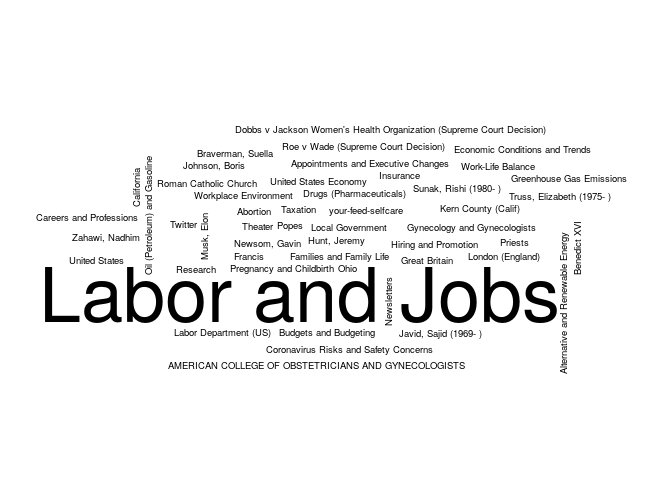
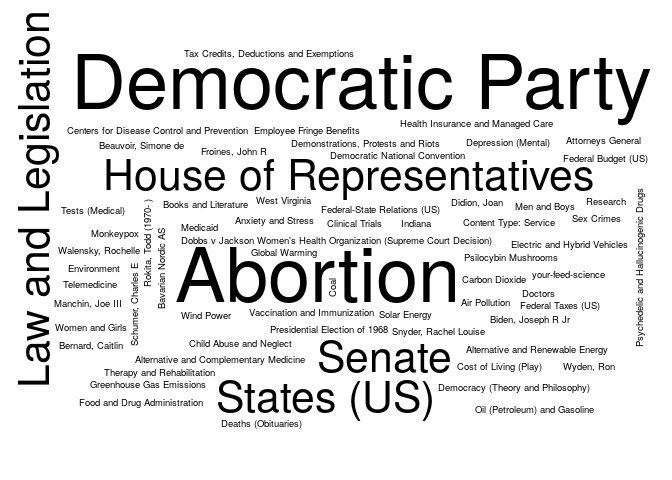
Updating the NYT report

Changed region(s): [[0.0312, 0.0312, 0.9688, 0.9062], [0.6875, 0.8438, 0.875, 0.875]]

diff --git a/03-nytimes/README.md b/03-nytimes/README.md
@@ -5,7 +5,7 @@ The following is an example of how to use the [NYTimes
 API](https://developer.nytimes.com/) to get a list of articles related
 to a particular term. Here we are searching articles that include the
 term `"health"`, and that were published up to seven days ago since
-2022-07-11.
+2022-07-18.
 
 ``` r
 # Preparing a function to use the GET method with the NYTimes API
@@ -83,25 +83,25 @@ colnames(tab) <- c("Keyword", "# Articles")
 knitr::kable(tab, row.names = FALSE)
 ```
 
-| Keyword                                                              | \# Articles |
-|:---------------------------------------------------------------------|------------:|
-| Content Type: Service                                                |          20 |
-| Labor and Jobs                                                       |          20 |
-| Politics and Government                                              |          20 |
-| Abortion                                                             |          10 |
-| Alternative and Renewable Energy                                     |          10 |
-| AMERICAN COLLEGE OF OBSTETRICIANS AND GYNECOLOGISTS                  |          10 |
-| Appointments and Executive Changes                                   |          10 |
-| Benedict XVI                                                         |          10 |
-| Braverman, Suella                                                    |          10 |
-| Budgets and Budgeting                                                |          10 |
-| California                                                           |          10 |
-| Careers and Professions                                              |          10 |
-| Coronavirus Risks and Safety Concerns                                |          10 |
-| Dobbs v Jackson Women’s Health Organization (Supreme Court Decision) |          10 |
-| Drugs (Pharmaceuticals)                                              |          10 |
-| Economic Conditions and Trends                                       |          10 |
-| Families and Family Life                                             |          10 |
-| Francis                                                              |          10 |
-| Great Britain                                                        |          10 |
-| Greenhouse Gas Emissions                                             |          10 |
+| Keyword                                    | \# Articles |
+|:-------------------------------------------|------------:|
+| Abortion                                   |          30 |
+| Democratic Party                           |          30 |
+| United States Politics and Government      |          30 |
+| House of Representatives                   |          20 |
+| Law and Legislation                        |          20 |
+| Senate                                     |          20 |
+| States (US)                                |          20 |
+| Air Pollution                              |          10 |
+| Alternative and Complementary Medicine     |          10 |
+| Alternative and Renewable Energy           |          10 |
+| Anxiety and Stress                         |          10 |
+| Attorneys General                          |          10 |
+| Bavarian Nordic AS                         |          10 |
+| Beauvoir, Simone de                        |          10 |
+| Bernard, Caitlin                           |          10 |
+| Biden, Joseph R Jr                         |          10 |
+| Books and Literature                       |          10 |
+| Carbon Dioxide                             |          10 |
+| Centers for Disease Control and Prevention |          10 |
+| Child Abuse and Neglect                    |          10 |
